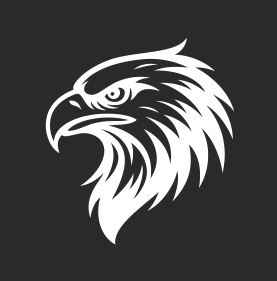
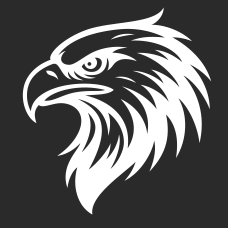
Ajustes parte 4

Changed region(s): [[0.0921, 0.0307, 0.9211, 0.9518]]

diff --git a/cards.py b/cards.py
@@ -11,3 +11,9 @@ def cargar_archivo_link():
 
 	st.page_link('carga_archivo.py', label = 'Carga el archivo espacial de tu proyecto', icon = ':material/upload_file:')
 	st.image('Images/Upload_file.png', width = 260, use_container_width = True)
+
+
+def lista_especies():
+
+	st.page_link('lista_especies.py', label = 'Consulta la lista de especies en tu proyecto', icon = ':material/local_florist:')
+	st.image('Images/Eagle3.png', width = 270)#, use_container_width = True)

diff --git a/home.py b/home.py
@@ -1,5 +1,5 @@
 import streamlit as st
-from cards import iniciar_sesion, cargar_archivo_link
+from cards import iniciar_sesion, cargar_archivo_link, lista_especies
 
 
 col_init1, col_init2 = st.columns([2,1])
@@ -26,11 +26,9 @@ with cols[1].container(height = 310):
 
 	cargar_archivo_link()
 
-	
+with cols[0].container(height = 310):
 
-# with cols[0].container(height = 310):
-
-# 	hashing()
+	lista_especies()
 
 # with cols[1].container(height = 310):
 
